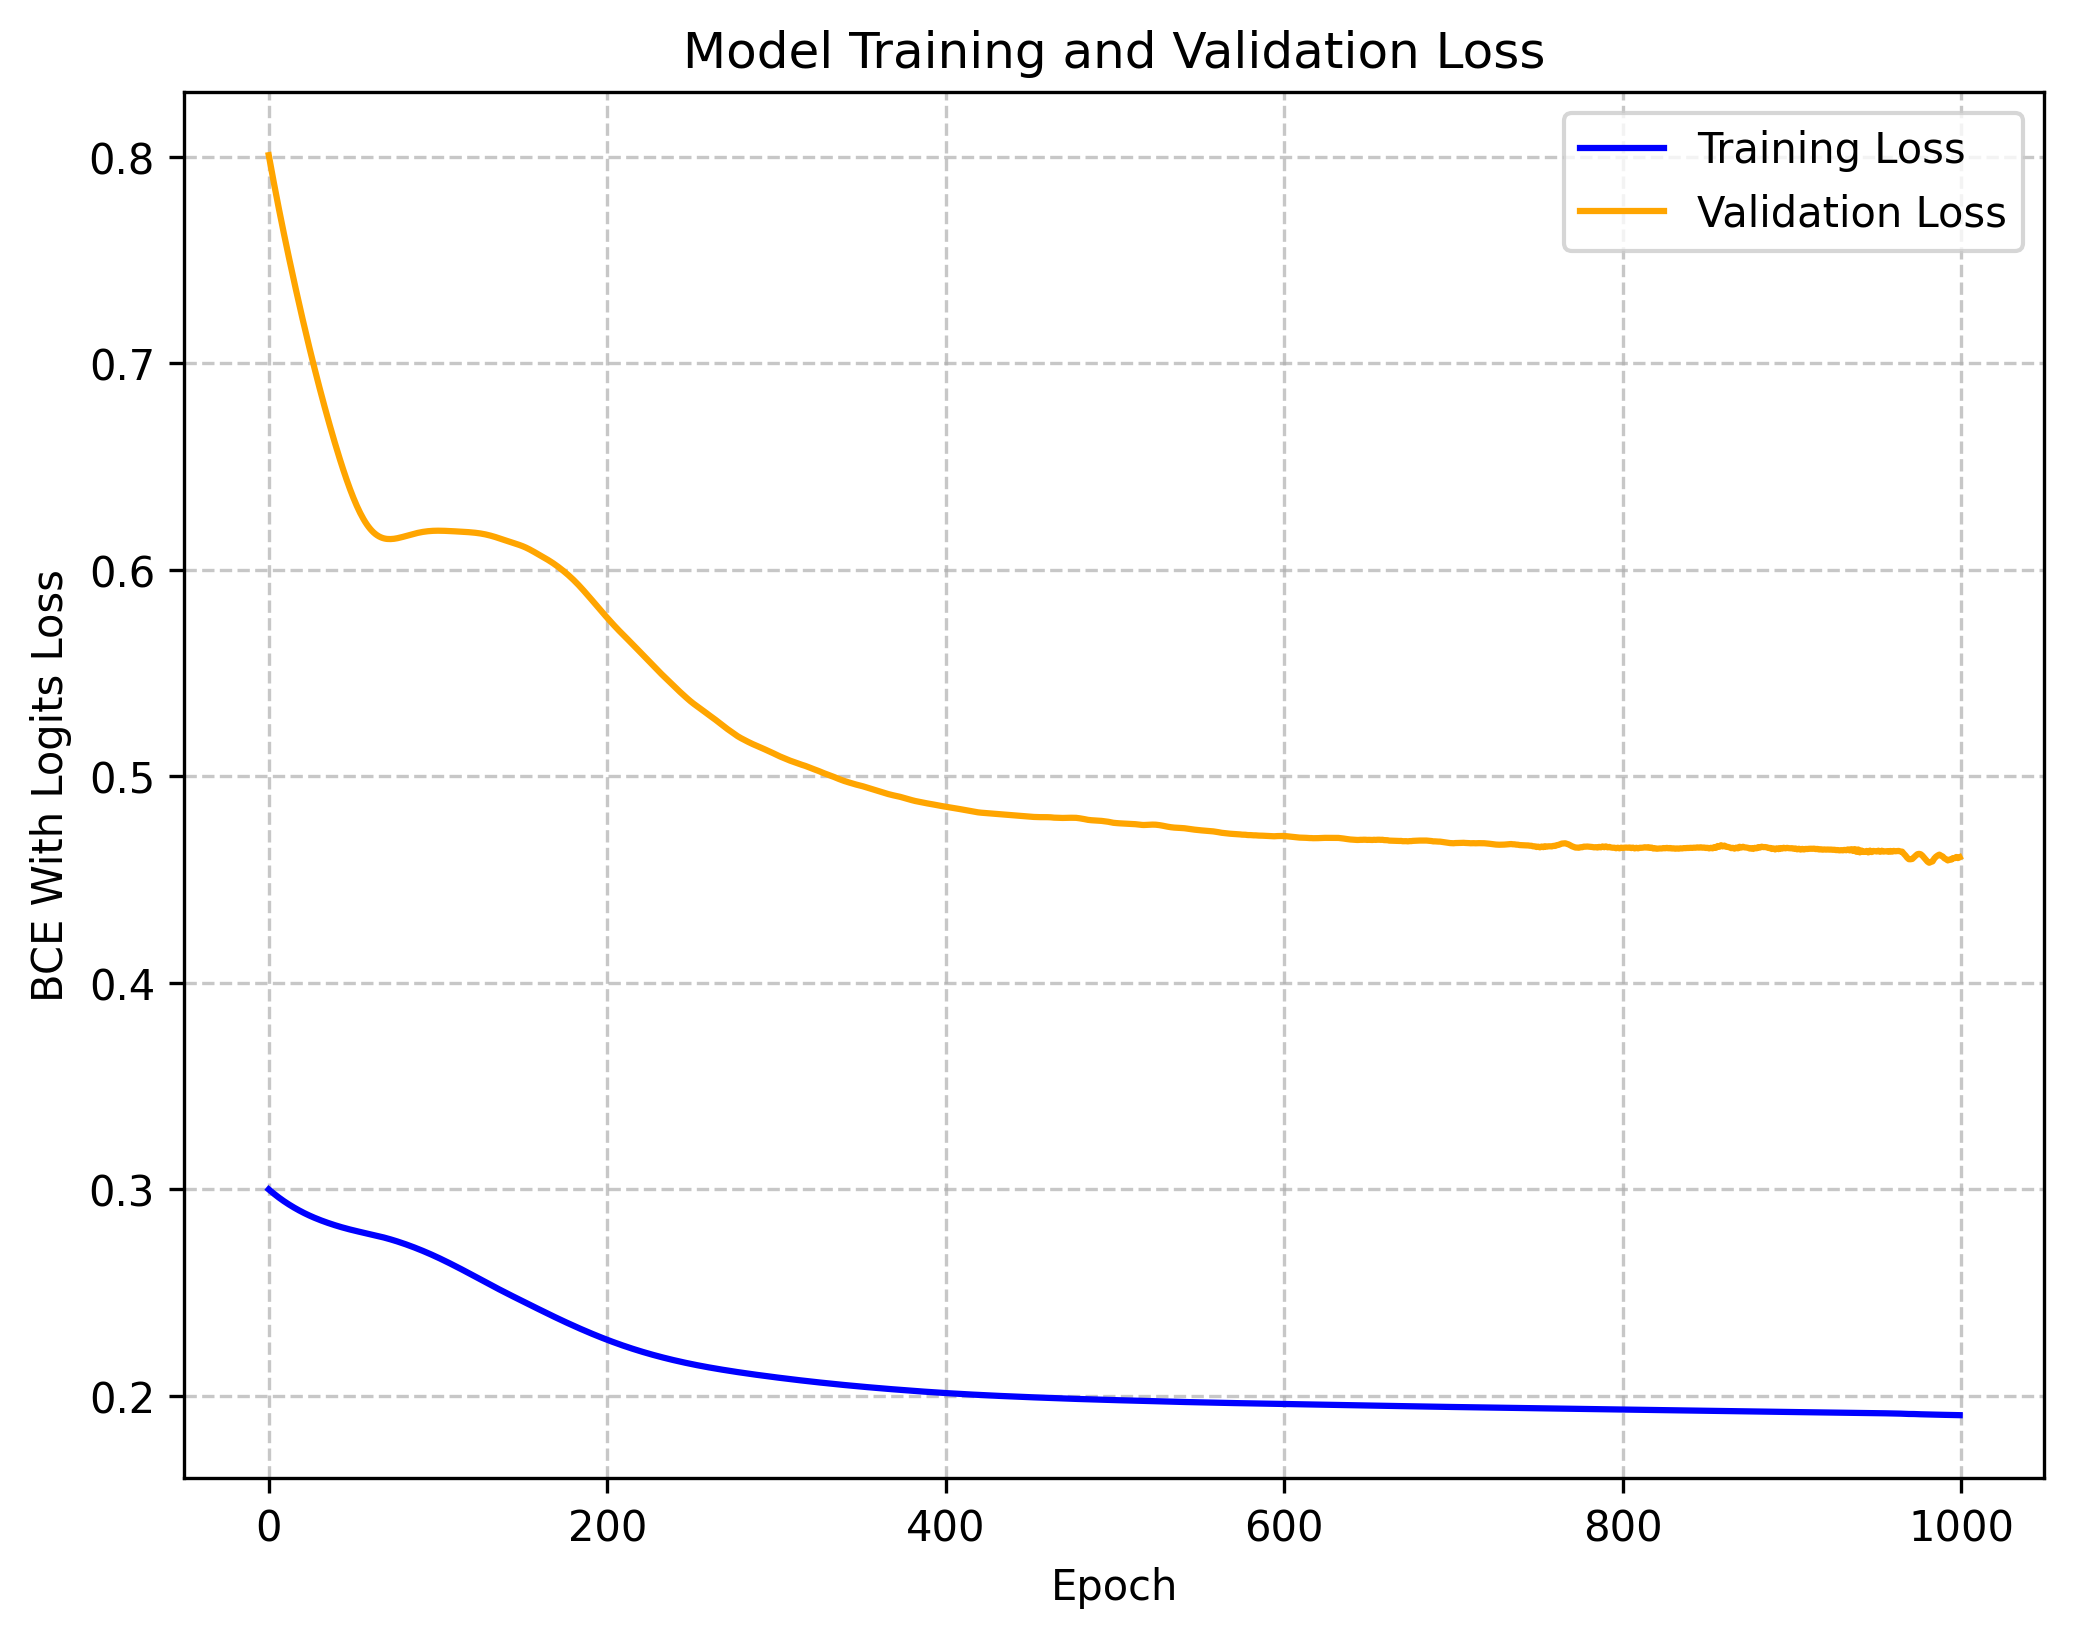
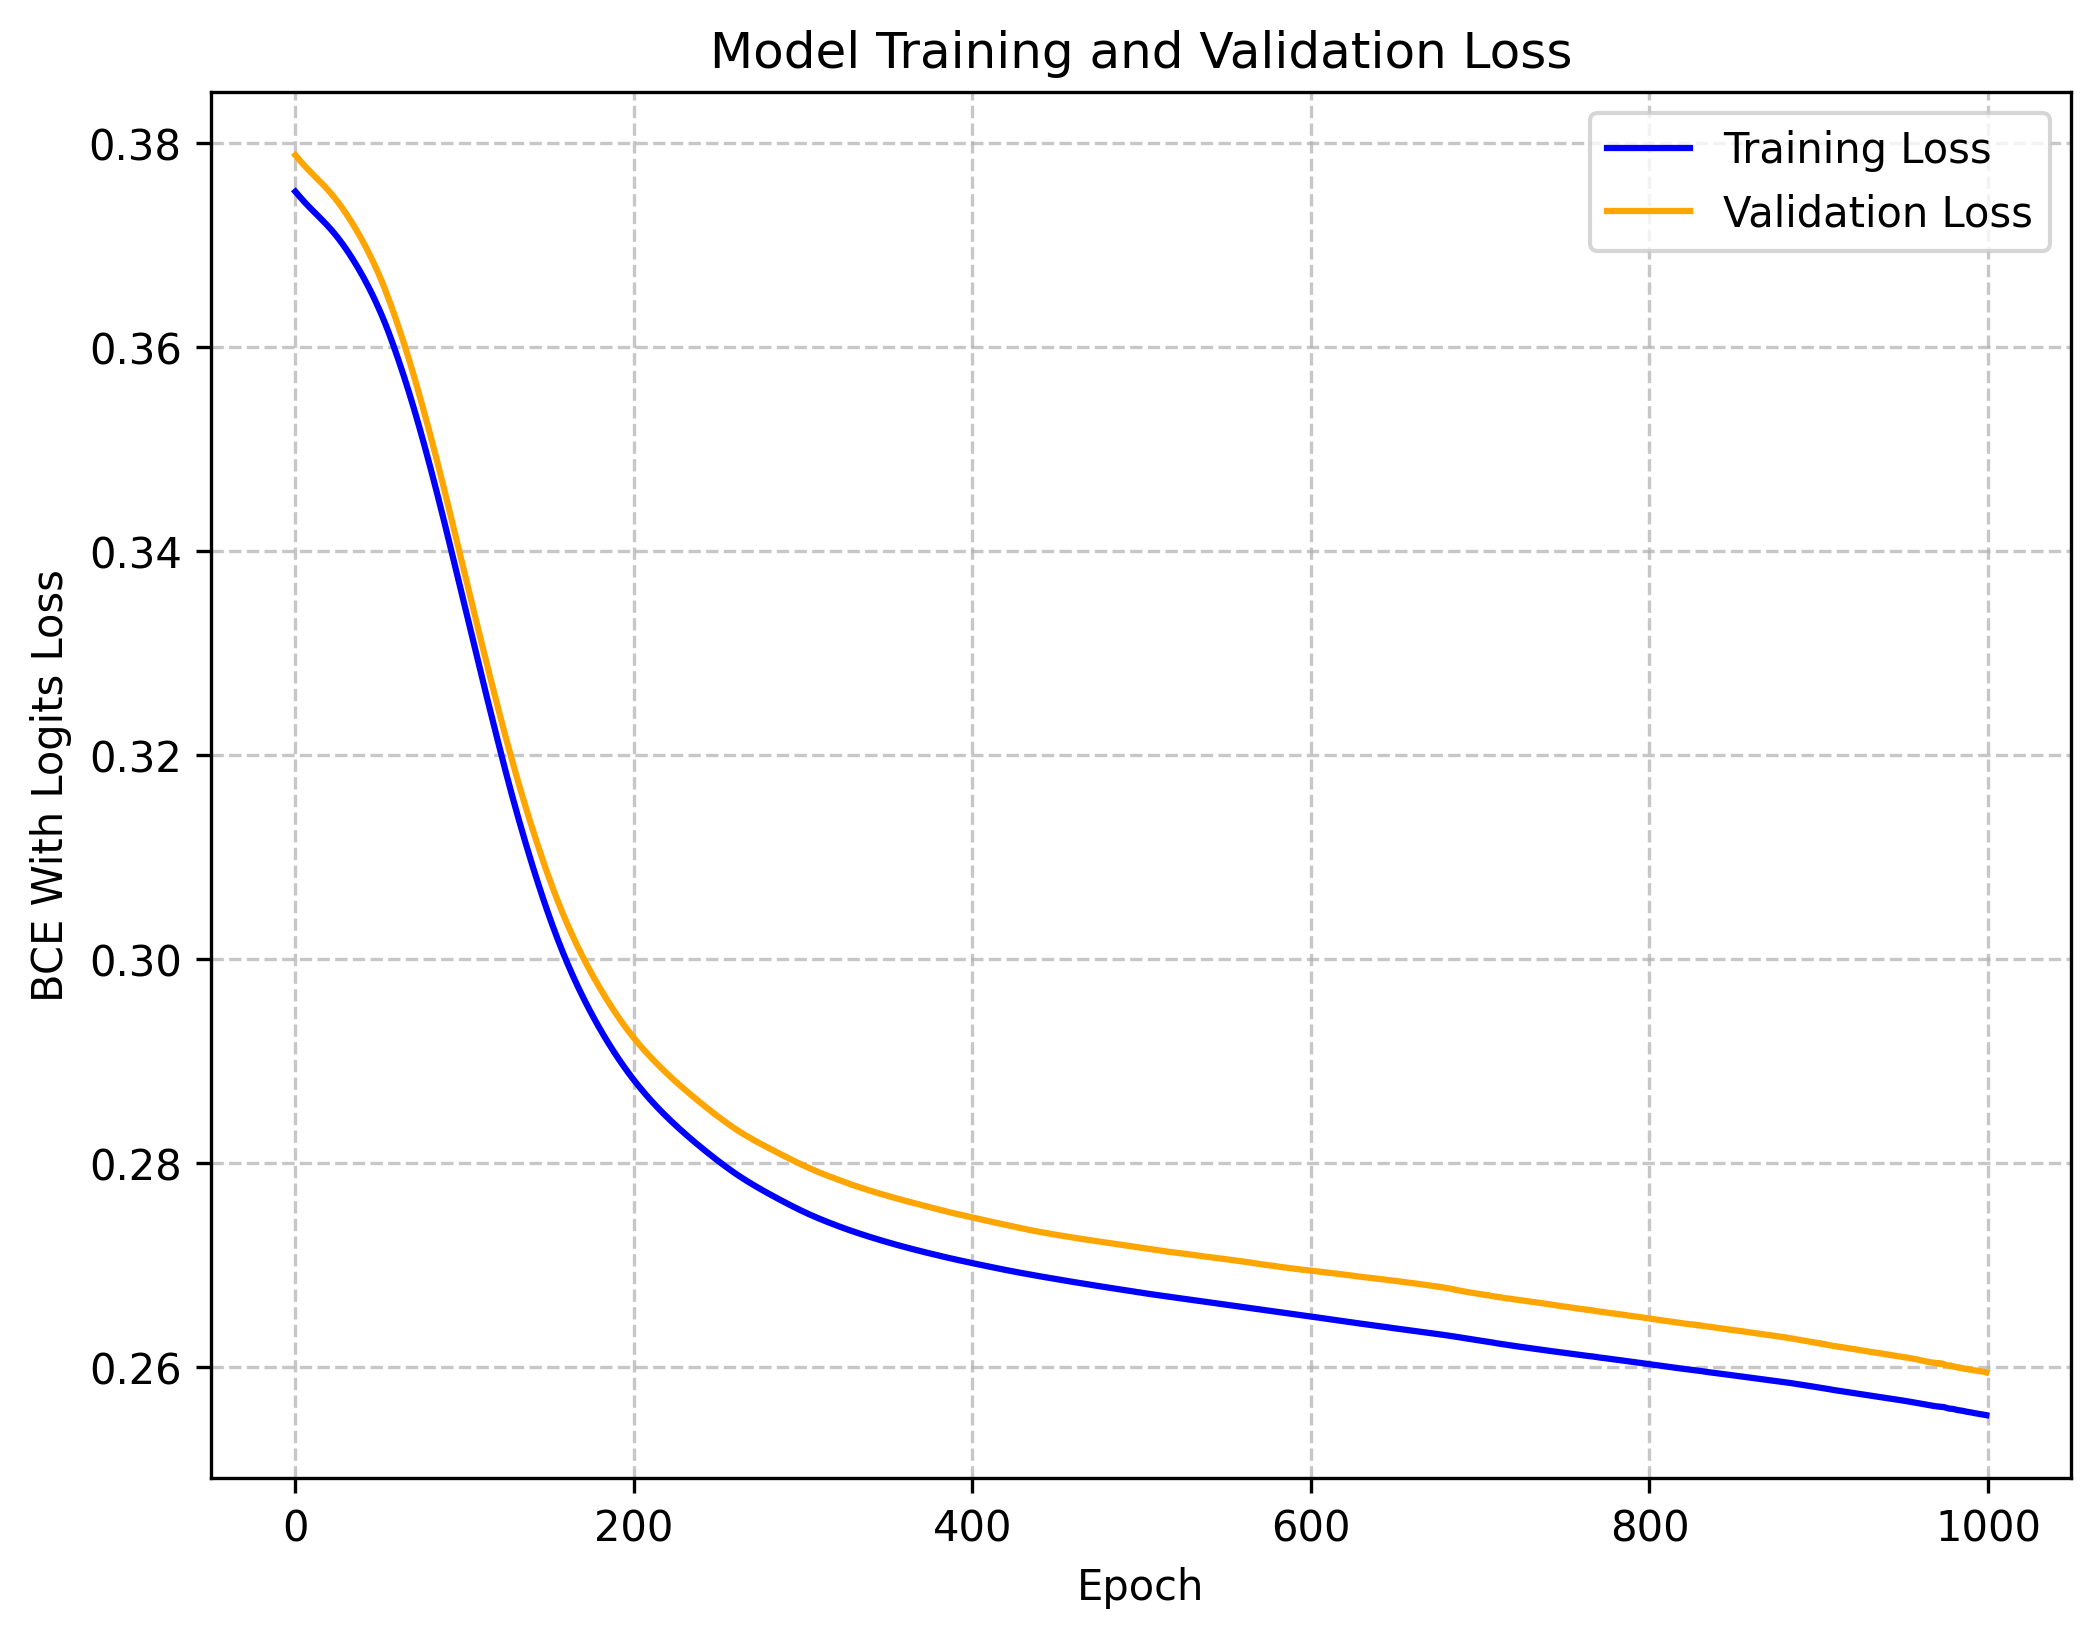
i dont even know, tried to solve validation?

diff --git a/acts/z_btr_files/mlp_model.py b/acts/z_btr_files/mlp_model.py
@@ -438,9 +438,16 @@ def train_model(X_train_scaled, y_train, X_val_scaled, y_val, train_df=None):
         sample_weights = compute_sample_weights(weight_df)
         weight_tensor = torch.tensor(sample_weights, dtype=torch.float32).unsqueeze(1)
         criterion = nn.BCEWithLogitsLoss(reduction='none')
+
+        val_weight_df = val_df[["pt"]].copy().reset_index(drop=True)
+        val_weight_df["label"] = y_val.values
+        val_sample_weights = compute_sample_weights(val_weight_df)
+        val_weight_tensor = torch.tensor(val_sample_weights, dtype=torch.float32).unsqueeze(1)
+
     else:
         criterion = nn.BCEWithLogitsLoss(pos_weight=pos_weight)
         weight_tensor = None
+        val_weight_tensor = None
 
     optimizer = optim.Adam(model.parameters(), lr=0.001)
 
@@ -465,12 +472,22 @@ def train_model(X_train_scaled, y_train, X_val_scaled, y_val, train_df=None):
         optimizer.step()
         train_losses.append(loss.item())
 
+        # # --- Validation Step ---
+        # model.eval() 
+        # with torch.no_grad():
+        #     val_outputs = model(X_val_tensor)
+        #     # Use unweighted criterion for validation to assess pure generalization
+        #     val_loss = nn.BCEWithLogitsLoss()(val_outputs, y_val_tensor)
+        #     val_losses.append(val_loss.item())
+
         # --- Validation Step ---
-        model.eval() 
+        model.eval()
         with torch.no_grad():
             val_outputs = model(X_val_tensor)
-            # Use unweighted criterion for validation to assess pure generalization
-            val_loss = nn.BCEWithLogitsLoss()(val_outputs, y_val_tensor)
+            if weight_tensor is not None:
+                val_loss = (criterion(val_outputs, y_val_tensor) * val_weight_tensor).mean()
+            else:
+                val_loss = nn.BCEWithLogitsLoss()(val_outputs, y_val_tensor)
             val_losses.append(val_loss.item())
 
         if (epoch + 1) % 20 == 0:
